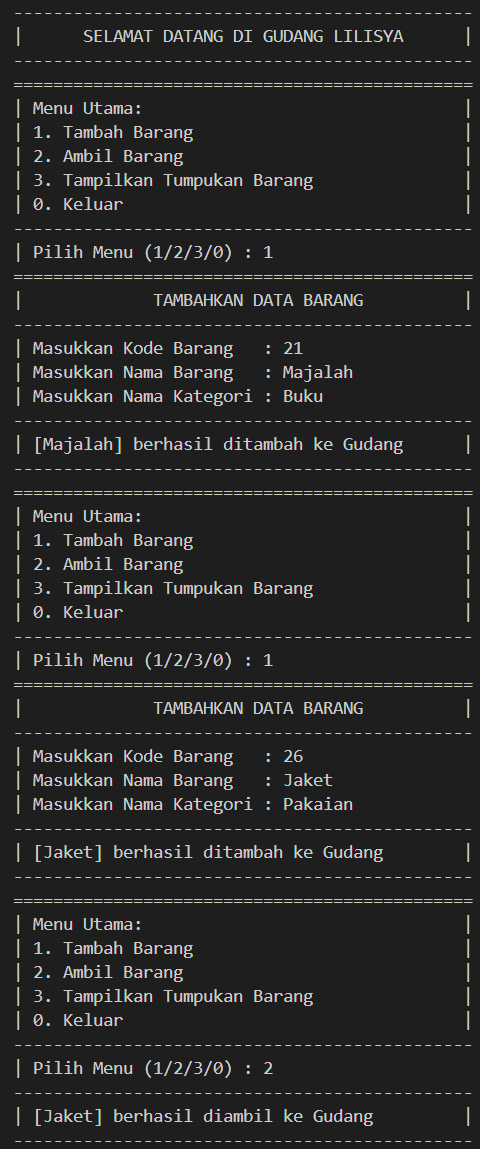
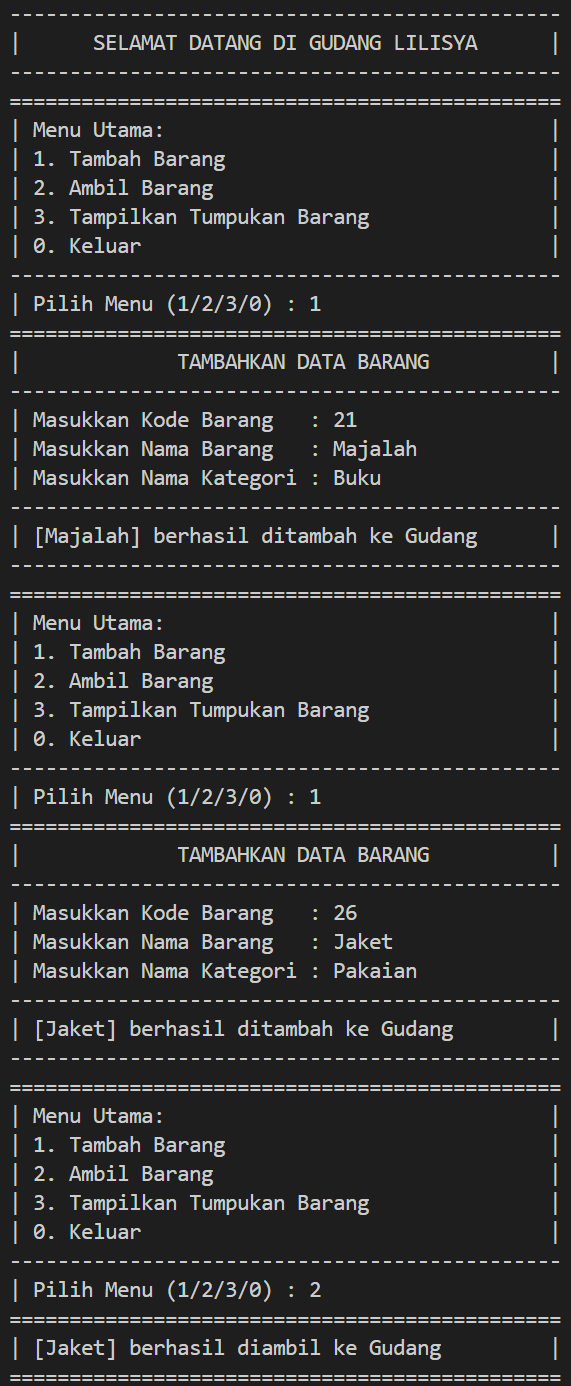
update: tampilkanBarang

diff --git a/Pertemuan08/Percobaan/Percobaan1_2/Utama12.java b/Pertemuan08/Percobaan/Percobaan1_2/Utama12.java
@@ -6,28 +6,28 @@ public class Utama12 {
     public static void main(String[] args) {
         Scanner sc = new Scanner(System.in);
         Scanner scs = new Scanner(System.in);
-        // Gudang12 gudang = new Gudang12(7);
+        Gudang12 gudang = new Gudang12(7);
         boolean stop = true;
 
         System.out.println("----------------------------------------------");
         System.out.println("|      SELAMAT DATANG DI GUDANG LILISYA      |");
         System.out.println("----------------------------------------------");
-        System.out.print("| Masukkan jumlah tumpukan: ");
-        int jmlData = scs.nextInt();
-        Gudang12 gudang = new Gudang12(jmlData);
+        // System.out.print("| Masukkan jumlah tumpukan: ");
+        // int jmlData = scs.nextInt();
+        // Gudang12 gudang = new Gudang12(jmlData);
         while (stop) {
             System.out.println("==============================================");
             System.out.println("| Menu Utama:                                |");
             System.out.println("| 1. Tambah Barang                           |");
             System.out.println("| 2. Ambil Barang                            |");
             System.out.println("| 3. Tampilkan Tumpukan Barang               |");
-            System.out.println("| 4. Lihat Barang Teratas                    |");
-            System.out.println("| 5. Lihat Barang Terbawah                   |");
-            System.out.println("| 6. Cari Barang                             |");
+            // System.out.println("| 4. Lihat Barang Teratas                    |");
+            // System.out.println("| 5. Lihat Barang Terbawah                   |");
+            // System.out.println("| 6. Cari Barang                             |");
             System.out.println("| 0. Keluar                                  |");
             System.out.println("----------------------------------------------");
-            // System.out.print("| Pilih Menu (1/2/3/0) : ");
-            System.out.print("| Pilih Menu (1/2/3/4/5/6/0) : ");
+            System.out.print("| Pilih Menu (1/2/3/0) : ");
+            // System.out.print("| Pilih Menu (1/2/3/4/5/6/0) : ");
             int pilihan = sc.nextInt();
             sc.nextLine();
 

diff --git a/Pertemuan08/Percobaan/Percobaan1_2/Gudang12.java b/Pertemuan08/Percobaan/Percobaan1_2/Gudang12.java
@@ -47,9 +47,9 @@ public class Gudang12 {
             top--;
             System.out.println("==============================================");
             System.out.printf("|%-43s %s|%n", " [" + delete.nama + "] berhasil diambil ke Gudang", "");
-            System.out.println("----------------------------------------------");
-            System.out.printf("|%-27s| %-15s|%n", " Kode unik dalam biner",
-                    konversiDesimalKeBiner(delete.kode));
+            // System.out.println("----------------------------------------------");
+            // System.out.printf("|%-27s| %-15s|%n", " Kode unik dalam biner",
+                    // konversiDesimalKeBiner(delete.kode));
             System.out.println("==============================================");
 
         } else {
@@ -81,7 +81,7 @@ public class Gudang12 {
         System.out.println("|            RINCIAN TUMPUKAN BARANG         |");
         System.out.println("----------------------------------------------");
         if (!cekKosong()) {
-            for (int i = 0; i <= top; i++) {
+            for (int i = top; i >= 0; i--) {
                 System.out.printf("| Kode %-3d| Nama %-9s| Kategori %-8s|\n", tumpukan[i].kode, tumpukan[i].nama,
                         tumpukan[i].kategori);
             }

diff --git a/Pertemuan08/Laporan/Laporan08.md b/Pertemuan08/Laporan/Laporan08.md
@@ -56,7 +56,7 @@
     Gudang12 gudang = new Gudang12(7);
     ```
     3. Pengecekan kondisi `!cekKosong()` diperlukan untuk memastikan bahwa tumpukan barang tidak kosong. Jika kondisi tersebut dihapus, program akan tetap dijalankan namun dapat menyebabkan hasil yang tidak relevan atau bahkan error saat mencoba menampilkan array kosong, sehingga menyebabkan `NullPointerException`.
-    4. Hasil Modifikasi
+    4. Hasil Modifikasi<br>
    <img src="per8_15.png" width="300px" > <br>
    <img src="per8_16.png" width="300px" ><br>
    
